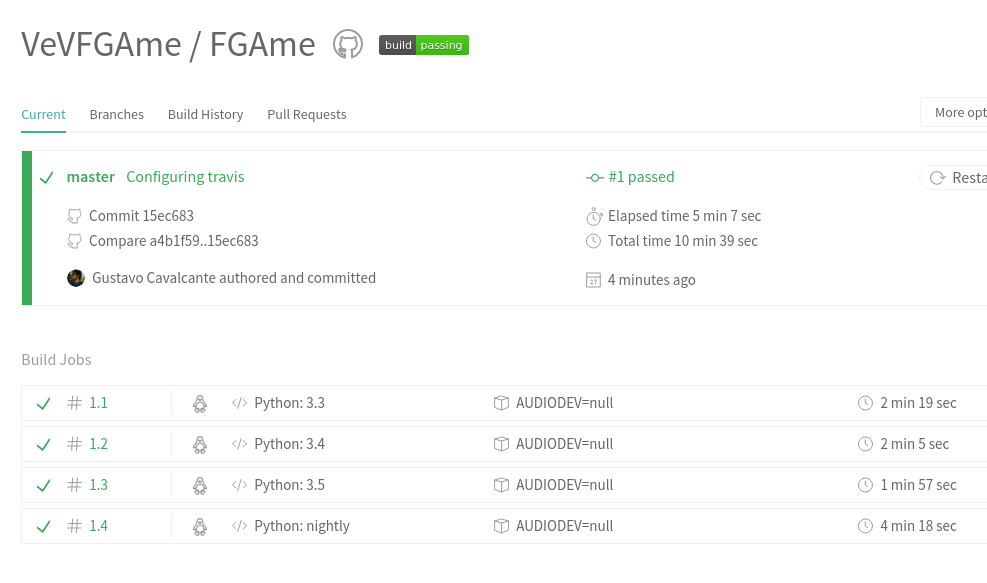
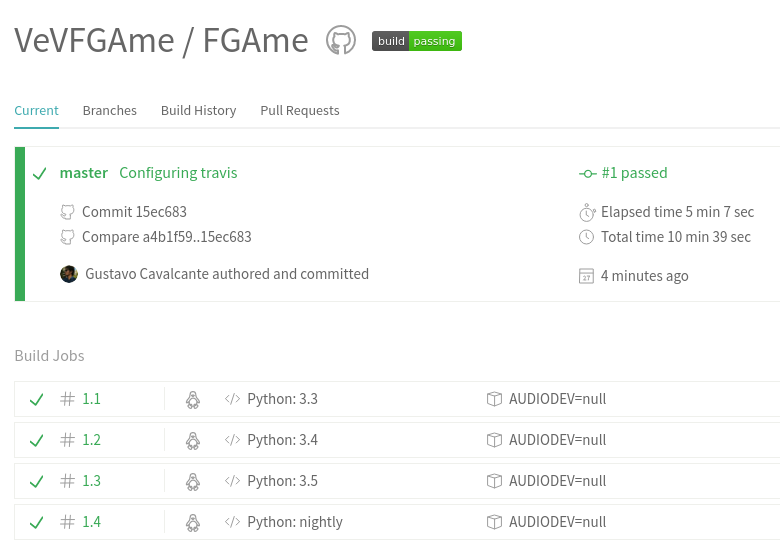
add travis picture in anexo

diff --git a/editaveis/anexos.tex b/editaveis/anexos.tex
@@ -403,6 +403,7 @@ def test_energy_tracker_default_kinetic_energy():
 {\LARGE \textbf{Arquivo de configuração da integração continua}}
 
 \begin{anexosenv}
+\begin{figure}[!htb]
 \begin{lstlisting}
 {
   "language": "python",
@@ -435,11 +436,12 @@ def test_energy_tracker_default_kinetic_energy():
   "os": "linux"
 }
 \end{lstlisting}
+\end{figure}
 
 \begin{figure}[!htb]
 \centering
 \includegraphics[scale=0.6]{figuras/build}
-\caption{Legenda}
+\caption{\textit{Build} do Travis passando corretamente.}
 \label{Rotulo}
 \end{figure}
 
